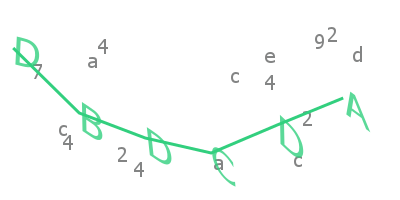
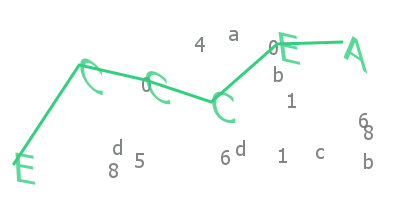
support for different color scheme in captcha text

diff --git a/src/main.ts b/src/main.ts
@@ -26,6 +26,7 @@ class CaptchaGenerator {
 	private trace: SetTraceOptions;
 	private decoy: SetDecoyOptions;
 	private background?: Buffer | string;
+	private captchaSegments: SetCaptchaOptions[] = [];
 
 	constructor(options: SetDimensionOption = {}) {
 		this.height = options.height || 100;
@@ -55,15 +56,33 @@ class CaptchaGenerator {
 		return this;
 	}
 
-	setCaptcha(options: SetCaptchaOptions): this {
-		this.captcha = merge(this.captcha, options) as SetCaptchaOptions;
-		if (options.text) this.captcha.characters = options.text.length;
-		if (!options.text && options.characters) {
-			this.captcha.text = randomBytes(32)
-				.toString('hex')
-				.toUpperCase()
-				.replace(/[^a-z]/gi, '')
-				.substr(0, options.characters);
+	setCaptcha(options: SetCaptchaOptions | SetCaptchaOptions[]): this {
+		if (Array.isArray(options)) {
+			this.captchaSegments = options;
+			const textFromSegments = options.map(opt => opt.text).filter(Boolean).join('');
+			if (textFromSegments) {
+				this.captcha.text = textFromSegments;
+				this.captcha.characters = textFromSegments.length;
+			} else if (!this.captcha.text || !this.captcha.characters) {
+				this.captcha.characters = this.captcha.characters || defaultCaptchaOptions.characters;
+				this.captcha.text = randomBytes(32)
+					.toString('hex')
+					.toUpperCase()
+					.replace(/[^a-z]/gi, '')
+					.substr(0, this.captcha.characters);
+			}
+
+		} else {
+			this.captchaSegments = [options];
+			this.captcha = merge(this.captcha, options) as SetCaptchaOptions;
+			if (options.text) this.captcha.characters = options.text.length;
+			if (!options.text && options.characters) {
+				this.captcha.text = randomBytes(32)
+					.toString('hex')
+					.toUpperCase()
+					.replace(/[^a-z]/gi, '')
+					.substr(0, options.characters);
+			}
 		}
 		return this;
 	}
@@ -130,26 +149,40 @@ class CaptchaGenerator {
 		}
 
 		if (this.captcha.opacity) {
-			ctx.font = `${this.captcha.size}px ${this.captcha.font}`;
-			ctx.globalAlpha = this.captcha.opacity;
-			ctx.fillStyle = this.captcha.color || '#000000';
 			for (let n = 0; n < coordinates.length; n++) {
+				const char = this.captcha.text ? this.captcha.text[n] : '';
+				let charOptions = { ...this.captcha }; // Default to global captcha options
+
+				// Find specific options for this character
+				for (const segmentOpt of this.captchaSegments) {
+					const start = segmentOpt.start !== undefined ? segmentOpt.start : 0;
+					const end = segmentOpt.end !== undefined ? segmentOpt.end : this.captcha.characters;
+
+					if (n >= start && n < end) {
+						charOptions = merge(charOptions, segmentOpt) as SetCaptchaOptions;
+					}
+				}
+
+				ctx.font = `${charOptions.size}px ${charOptions.font}`;
+				ctx.globalAlpha = charOptions.opacity || 1;
+				ctx.fillStyle = charOptions.color || '#000000';
+
 				ctx.save();
 				ctx.translate(coordinates[n][0], coordinates[n][1]);
-				if (this.captcha.skew) {
+				if (charOptions.skew) {
 					ctx.transform(1, Math.random(), getRandom(0, 20) / 100, 1, 0, 0);
 				}
-				if (this.captcha.rotate && this.captcha.rotate > 0) {
+				if (charOptions.rotate && charOptions.rotate > 0) {
 					ctx.rotate(
-						(getRandom(-this.captcha.rotate, this.captcha.rotate) * Math.PI) / 180
+						(getRandom(-charOptions.rotate, charOptions.rotate) * Math.PI) / 180
 					);
 				}
-				if (this.captcha.colors && this.captcha.colors.length >= 2) {
-					ctx.fillStyle = this.captcha.colors[
-						getRandom(0, this.captcha.colors.length - 1)
+				if (charOptions.colors && charOptions.colors.length >= 2) {
+					ctx.fillStyle = charOptions.colors[
+						getRandom(0, charOptions.colors.length - 1)
 					];
 				}
-				if (this.captcha.text) ctx.fillText(this.captcha.text[n], 0, 0);
+				ctx.fillText(char, 0, 0);
 				ctx.restore();
 			}
 		}
@@ -208,26 +241,40 @@ class CaptchaGenerator {
 		}
 
 		if (this.captcha.opacity) {
-			ctx.font = `${this.captcha.size}px ${this.captcha.font}`;
-			ctx.globalAlpha = this.captcha.opacity;
-			ctx.fillStyle = this.captcha.color || '#000000';
 			for (let n = 0; n < coordinates.length; n++) {
+				const char = this.captcha.text ? this.captcha.text[n] : '';
+				let charOptions = { ...this.captcha }; // Default to global captcha options
+
+				// Find specific options for this character
+				for (const segmentOpt of this.captchaSegments) {
+					const start = segmentOpt.start !== undefined ? segmentOpt.start : 0;
+					const end = segmentOpt.end !== undefined ? segmentOpt.end : this.captcha.characters;
+
+					if (n >= start && n < end) {
+						charOptions = merge(charOptions, segmentOpt) as SetCaptchaOptions;
+					}
+				}
+
+				ctx.font = `${charOptions.size}px ${charOptions.font}`;
+				ctx.globalAlpha = charOptions.opacity || 1;
+				ctx.fillStyle = charOptions.color || '#000000';
+
 				ctx.save();
 				ctx.translate(coordinates[n][0], coordinates[n][1]);
-				if (this.captcha.skew) {
+				if (charOptions.skew) {
 					ctx.transform(1, Math.random(), getRandom(0, 20) / 100, 1, 0, 0);
 				}
-				if (this.captcha.rotate && this.captcha.rotate > 0) {
+				if (charOptions.rotate && charOptions.rotate > 0) {
 					ctx.rotate(
-						(getRandom(-this.captcha.rotate, this.captcha.rotate) * Math.PI) / 180
+						(getRandom(-charOptions.rotate, charOptions.rotate) * Math.PI) / 180
 					);
 				}
-				if (this.captcha.colors && this.captcha.colors.length >= 2) {
-					ctx.fillStyle = this.captcha.colors[
-						getRandom(0, this.captcha.colors.length - 1)
+				if (charOptions.colors && charOptions.colors.length >= 2) {
+					ctx.fillStyle = charOptions.colors[
+						getRandom(0, charOptions.colors.length - 1)
 					];
 				}
-				if (this.captcha.text) ctx.fillText(this.captcha.text[n], 0, 0);
+				ctx.fillText(char, 0, 0);
 				ctx.restore();
 			}
 		}

diff --git a/examples/example.js b/examples/example.js
@@ -25,4 +25,13 @@ const fs = require('fs');
 	fs.writeFileSync('./examples/all.png', captcha.generateSync());
 	// console text of captcha
 	console.log(captcha.text);
+	/* Set Captcha with segments example*/
+	captcha.setCaptcha([
+		{ text: 'AB', color: 'red', size: 60, start: 0, end: 2 },
+		{ text: 'CD', color: 'green', size: 40, start: 2, end: 4 },
+		{ text: 'EF', color: 'blue', size: 50, start: 4, end: 6 },
+	]);
+	captcha.setDimension(150, 450);
+	fs.writeFileSync('./examples/segmented_captcha.png', captcha.generateSync());
+	console.log('Segmented Captcha Text:', captcha.text);
 })();

diff --git a/src/constants.ts b/src/constants.ts
@@ -13,6 +13,8 @@ export interface SetCaptchaOptions {
 	rotate?: number;
 	size?: number;
 	opacity?: number;
+	start?: number;
+	end?: number;
 }
 
 export interface SetTraceOptions {

diff --git a/README.md b/README.md
@@ -36,6 +36,27 @@ fs.writeFileSync('image.png', buffer); //will create image.png file of the captc
 ```
 
 You can use many methods like [setCaptcha](https://captcha-canvas.js.org/CaptchaGenerator.html#setCaptcha) and [setTrace](https://captcha-canvas.js.org/CaptchaGenerator.html#setTrace) to customize there appearance and values.
+
+### Segmented Captcha Example
+You can now apply different styles to different segments of the captcha string by passing an array of `SetCaptchaOptions` to the `setCaptcha` method. Each object in the array can define `start` and `end` properties to specify the character range it applies to.
+
+```js
+const { CaptchaGenerator } = require('captcha-canvas');
+const fs = require('fs');
+
+(async () => {
+	const captcha = new CaptchaGenerator();
+	captcha.setCaptcha([
+		{ text: 'AB', color: 'red', size: 60, start: 0, end: 2 },
+		{ text: 'CD', color: 'green', size: 40, start: 2, end: 4 },
+		{ text: 'EF', color: 'blue', size: 50, start: 4, end: 6 },
+	])
+		.setDimension(150, 450);
+	fs.writeFileSync('./examples/segmented_captcha.png', captcha.generateSync());
+	console.log(captcha.text);
+})();
+```
+
 ## Need Help:
 
 I am working on a simple guide for this npm package you can check it out [here](https://github.com/Shashank3736/captcha-canvas/wiki). 
